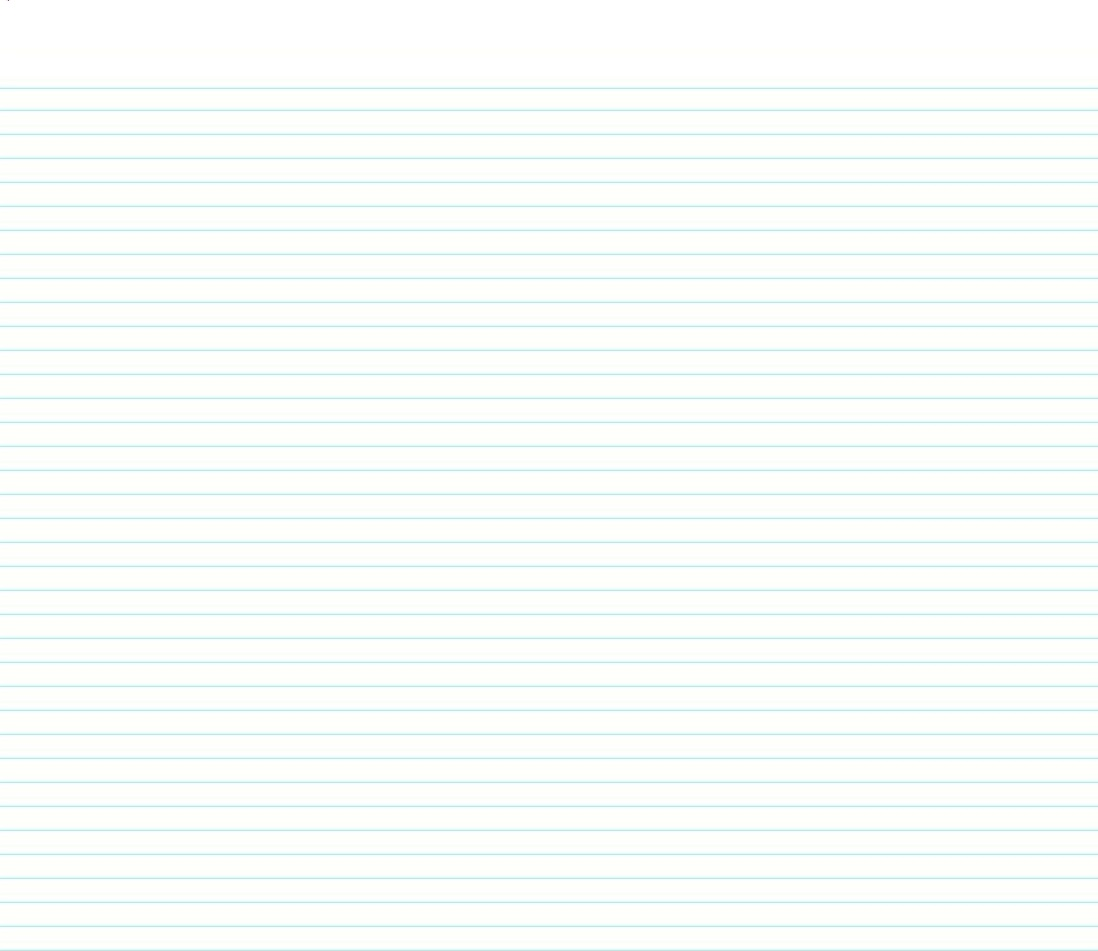
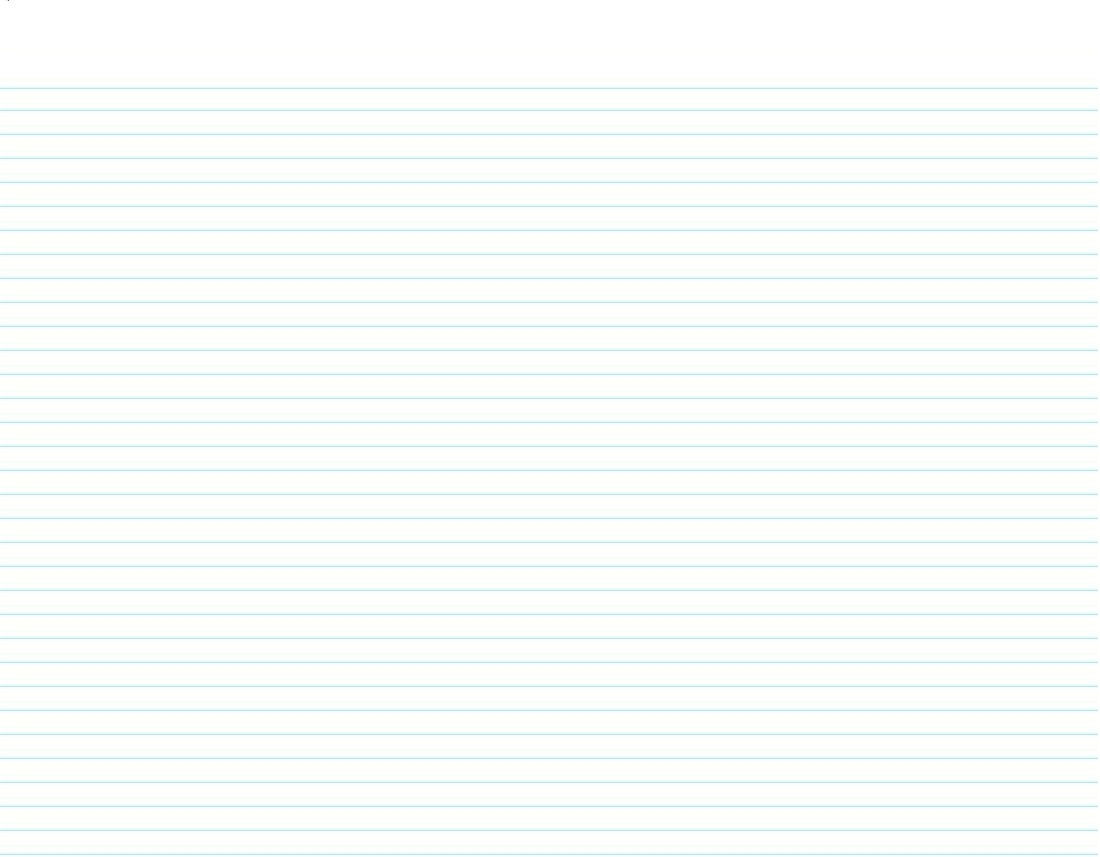
made quality changes added menu to sample details object changed up coursera ceritficate image changed up notebook and checklist backgrounds

diff --git a/scripts/services.js b/scripts/services.js
@@ -77,6 +77,15 @@ var samples=[
                         },
                         {
                           _id:2,
+                          name:'Menu',
+                          image: 'images/menu.PNG',
+                          url: 'https://surakhchin.github.io/conFusion/#/menu',
+                          date: '2/30/2017',
+                          description:'Menu app is the featured page of conFusion site. It is an Angular page that uses bootstrap tabs to display menu dishes. Clicking on each dish redirects to a dish detail template were you can read and submit dish comments'
+
+                        },
+                        {
+                          _id:3,
                           name:'Budgets',
                           image: 'images/budgets.PNG',
                           url: 'https://surakhchin.github.io/budgets2',
@@ -84,11 +93,11 @@ var samples=[
                           description:'Simple budgets app build for an open source project. This app pulls custom data from a RESTful API server. Supports GET, UPDATE, DELETE, ADD operations on the Campaign Budgets Object.'
                         },
                         {
-                          _id:3,
-                          name:'Form',
+                          _id:4,
+                          name:'Forms',
                           image: 'images/form.PNG',
                           url: 'https://surakhchin.github.io/form',
-                          date: '5/30/2017',
+                          date: '6/1/2016',
                           description:'Sample forms made with HTML5, jQuery ajax, and custom JavaScript',
                           url2: 'https://surakhchin.github.io/form2'
                         }

diff --git a/views/sampledetails.html b/views/sampledetails.html
@@ -39,7 +39,7 @@
                         </div>
                         <div class="media-right">
                             <h2 class="media-heading"><a ng-href={{sample.url}}>{{sample.name}}
-                            </a> <a ng-show="showForm2" ng-href={{sample.url2}}>Form2</a></h2>
+                            </a> <a ng-show="showForm2" ng-href={{sample.url2}}>Forms2</a></h2>
                             <p>{{sample.description}}</p>
                             <!--<p>Comment: {{dish.comment}}</p>-->
                             <!--<p>Type your comment:-->

diff --git a/scripts/controllers.js b/scripts/controllers.js
@@ -41,7 +41,7 @@ angular.module('confusionApp')
 
 			$scope.showForm2 = false;
 
-			if ($scope.sample._id === 3) {
+			if ($scope.sample._id === 4) {
 
 				$scope.showForm2 = true;
 			}
